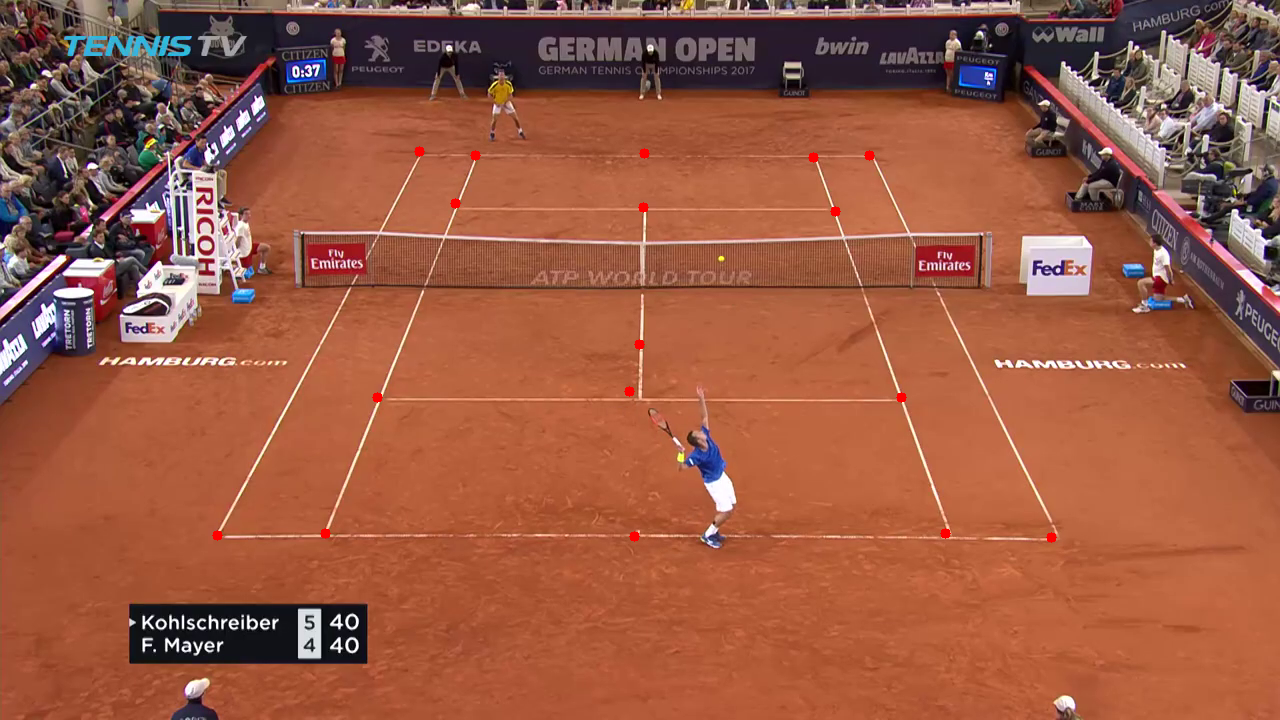
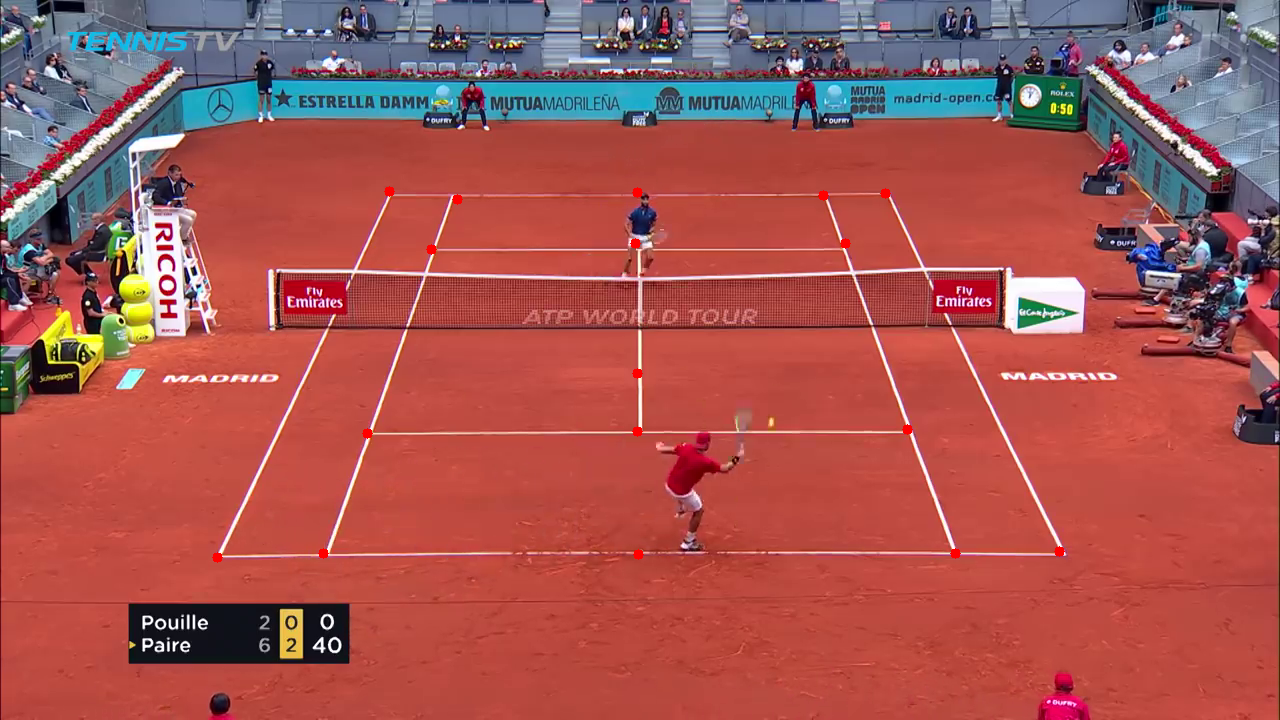
update: main.py and other stuff

diff --git a/court_visualizer/court_visualizer.py b/court_visualizer/court_visualizer.py
@@ -26,7 +26,6 @@ class CourtVisualizer():
         self.set_court_drawing_key_points()
         self.set_court_lines()
 
-
     def convert_meters_to_pixels(self, meters):
         return convert_meters_to_pixel_distance(meters,
                                                 constants.DOUBLE_LINE_WIDTH,
@@ -183,6 +182,7 @@ class CourtVisualizer():
 
         return  mini_court_player_position
 
+    # NEEDS TO BE IMPROVED
     def convert_bounding_boxes_to_mini_court_coordinates(self, player_boxes, ball_boxes, original_court_key_points):
         player_heights = {
             1: constants.PLAYER_1_HEIGHT_METERS,
@@ -192,13 +192,10 @@ class CourtVisualizer():
         output_player_boxes= []
         output_ball_boxes= []
 
-        # frame_num = player_id
         for player_id, player_bbox in enumerate(player_boxes, 1):
             output_player_bboxes_dict = {}
-            #player_id = 1
 
             foot_position = get_foot_position(player_bbox['bbox'])
-
 
             # Get The closest keypoint in pixels
             closest_key_point_index = get_closest_keypoint_index(foot_position, original_court_key_points, [0,2,12,13])
@@ -238,9 +235,9 @@ class CourtVisualizer():
 
         return output_player_boxes, output_ball_boxes
     
-    def draw_points_players_on_mini_court(self, image, players_postions, color=(0,255,0)):
-        x_1,y_1 = players_postions[1][2][0][0].numpy(), players_postions[1][2][1][1].numpy()
-        x_2,y_2 = players_postions[0][1][0][0].numpy(), players_postions[0][1][1][1].numpy()
+    def draw_points_players_on_mini_court(self, image, players_positons, color=(0,255,0)):
+        x_1,y_1 = players_positons[1][2][0][0].numpy(), players_positons[1][2][1][1].numpy()
+        x_2,y_2 = players_positons[0][1][0][0].numpy(), players_positons[0][1][1][1].numpy()
         x_1=int(x_1)
         y_1=int(y_1)
         x_2=int(x_2)
@@ -249,9 +246,9 @@ class CourtVisualizer():
         cv2.circle(image, (x_2,y_2), 5, color, -1)
         return image
     
-    def draw_points_ball_on_mini_court(self, image, ball_postions, color=(0,200,0)):
-        if len(ball_postions)!= 0:
-            x,y = ball_postions[0][1][0][0].numpy(), ball_postions[0][1][1][0].numpy()
+    def draw_points_ball_on_mini_court(self, image, ball_positons, color=(0,200,0)):
+        if len(ball_positons)!= 0:
+            x,y = ball_positons[0][1][0][0].numpy(), ball_positons[0][1][1][0].numpy()
             x=int(x)
             y=int(y)
             cv2.circle(image, (x,y), 4, color, -1)

diff --git a/utils/__init__.py b/utils/__init__.py
@@ -1,5 +1,5 @@
 from .video_utils import read_video, save_video, scene_detect, write_video
 from .image_utils import save_image, read_image
-from .bbox_utils import measure_distance, get_foot_position, get_closest_keypoint_index, get_height_of_bbox, measure_xy_distance, get_center_of_bbox, draw_bounding_boxes
+from .bbox_utils import measure_distance, get_foot_position, get_height_of_bbox, measure_xy_distance, get_center_of_bbox, draw_bounding_boxes
 from .conversions import convert_pixel_distance_to_meters, convert_meters_to_pixel_distance
-from .court_utils import gaussian2D, draw_umich_gaussian, gaussian_radius, line_intersection, is_point_in_image
+from .court_utils import gaussian2D, draw_umich_gaussian, gaussian_radius, line_intersection, is_point_in_image, get_closest_keypoint_index

diff --git a/utils/court_utils.py b/utils/court_utils.py
@@ -27,6 +27,18 @@ def draw_umich_gaussian(heatmap, center, radius, k=1):
         np.maximum(masked_heatmap, masked_gaussian * k, out=masked_heatmap)
     return heatmap
 
+def get_closest_keypoint_index(point, keypoints, keypoint_indices):
+    closest_distance = float('inf')
+    key_point_ind = keypoint_indices[0]
+
+    for keypoint_indix in keypoint_indices:
+        keypoint = keypoints[keypoint_indix]#, keypoints[keypoint_indix*2+1]
+        distance = abs(point[1]-keypoint[1])
+        if distance<closest_distance:
+            closest_distance = distance
+            key_point_ind = keypoint_indix
+    
+    return key_point_ind
 
 def gaussian_radius(det_size, min_overlap=0.7):
     height, width = det_size

diff --git a/main.py b/main.py
@@ -55,12 +55,10 @@ distance from specific lines (baseline, sideline)
 """
 
 """
-Width and Height for Transformed Image:
-500x500 is the dimension for the
-geometrical transformed image
+Width and Height for Transformed Image
 """
 
-WIDTH, HEIGHT = 500,500
+WIDTH, HEIGHT = 300,500
 
 
 def main():
@@ -76,7 +74,7 @@ def main():
     device = 'cuda' if torch.cuda.is_available() else 'cpu'
 
     # --- Input Image Paths --- #
-    input_image_path = "input/input_images/input_image1.png"
+    input_image_path = "input/input_images/input_image7.png"
 
     # --- Input Video Paths --- #
     input_video_path = "input/input_videos/input_video6.mp4"

diff --git a/utils/bbox_utils.py b/utils/bbox_utils.py
@@ -16,19 +16,6 @@ def get_foot_position(bbox):
     x1, y1, x2, y2 = bbox
     return (int((x1 + x2) / 2), y2)
 
-def get_closest_keypoint_index(point, keypoints, keypoint_indices):
-    closest_distance = float('inf')
-    key_point_ind = keypoint_indices[0]
-
-    for keypoint_indix in keypoint_indices:
-        keypoint = keypoints[keypoint_indix]#, keypoints[keypoint_indix*2+1]
-        distance = abs(point[1]-keypoint[1])
-        if distance<closest_distance:
-            closest_distance = distance
-            key_point_ind = keypoint_indix
-    
-    return key_point_ind
-
 def get_height_of_bbox(bbox):
     return bbox[3]-bbox[1]
 

diff --git a/geometrical_transformations/geometrical_transformations.py b/geometrical_transformations/geometrical_transformations.py
@@ -1,7 +1,7 @@
 import cv2
 import numpy as np
 
-CROP_WIDTH, CROP_HEIGHT = 500,500
+CROP_WIDTH, CROP_HEIGHT = 500,300
 
 
 class GeometricalTransformations:
